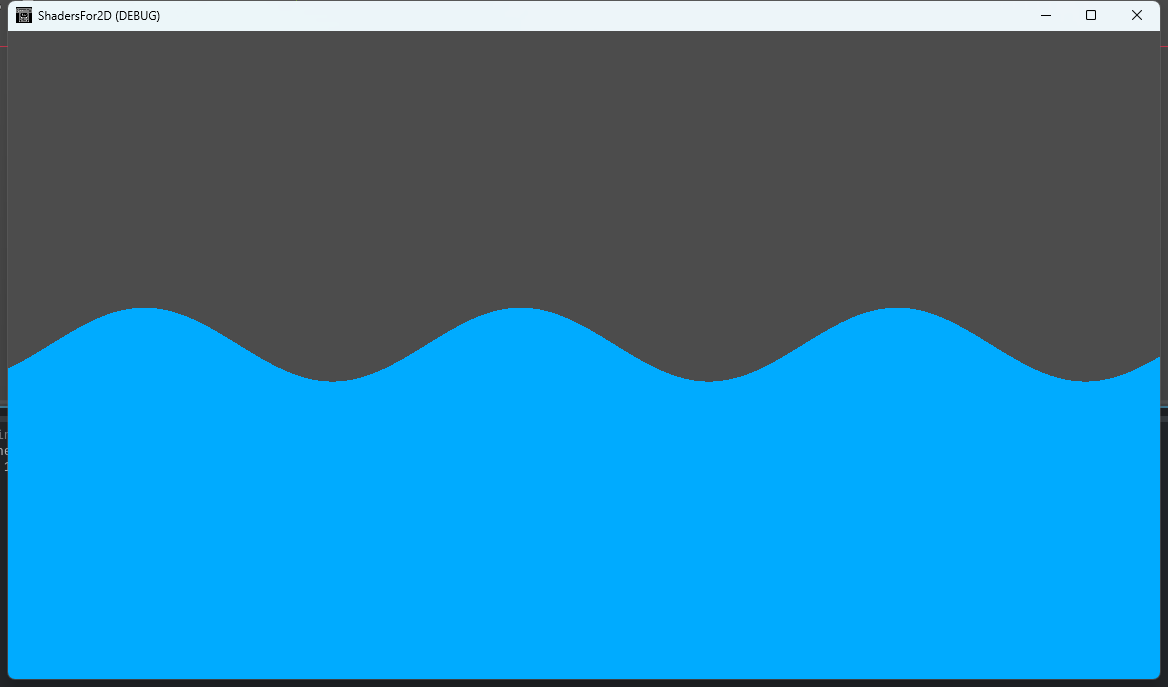
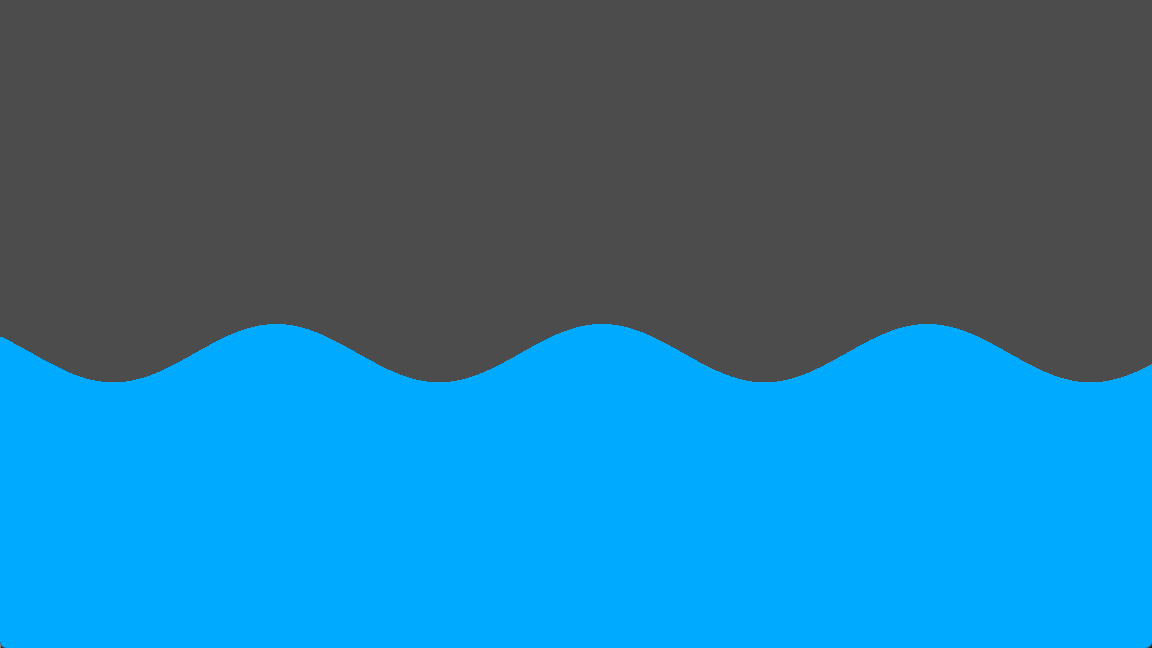
Add water_surface & Update screenshots

Changed region(s): [[0.0, 0.4321, 1.0, 1.0], [0.0, 0.0, 1.0, 0.0617], [0.5625, 0.5247, 0.5938, 0.5556]]

diff --git a/README.md b/README.md
@@ -2,8 +2,8 @@
 
 2D Shader in Godot
 
-| NAME | SCREENSHOT                     | NAME | SCREENSHOT |
-|:----:| ------------------------------ |:----:|:----------:|
-| wave | ![wave](.screenshots/wave.png) |      |            |
-|      |                                |      |            |
-|      |                                |      |            |
+| NAME   | SCREENSHOT                       | NAME          | SCREENSHOT                              | NAME | SCREENSHOT                    | NAME | SCREENSHOT                     |
+|:------:| -------------------------------- |:-------------:|:---------------------------------------:|:----:|:-----------------------------:|:----:|:------------------------------:|
+| wave   | ![wave](.screenshots/wave.png)   | show          | ![wave](.screenshots/show.png)          | CRT  | ![wave](.screenshots/CRT.png) | gray | ![wave](.screenshots/gray.png) |
+| spiral | ![wave](.screenshots/spiral.png) | water surface | ![wave](.screenshots/water_surface.png) |      |                               |      |                                |
+|        |                                  |               |                                         |      |                               |      |                                |
